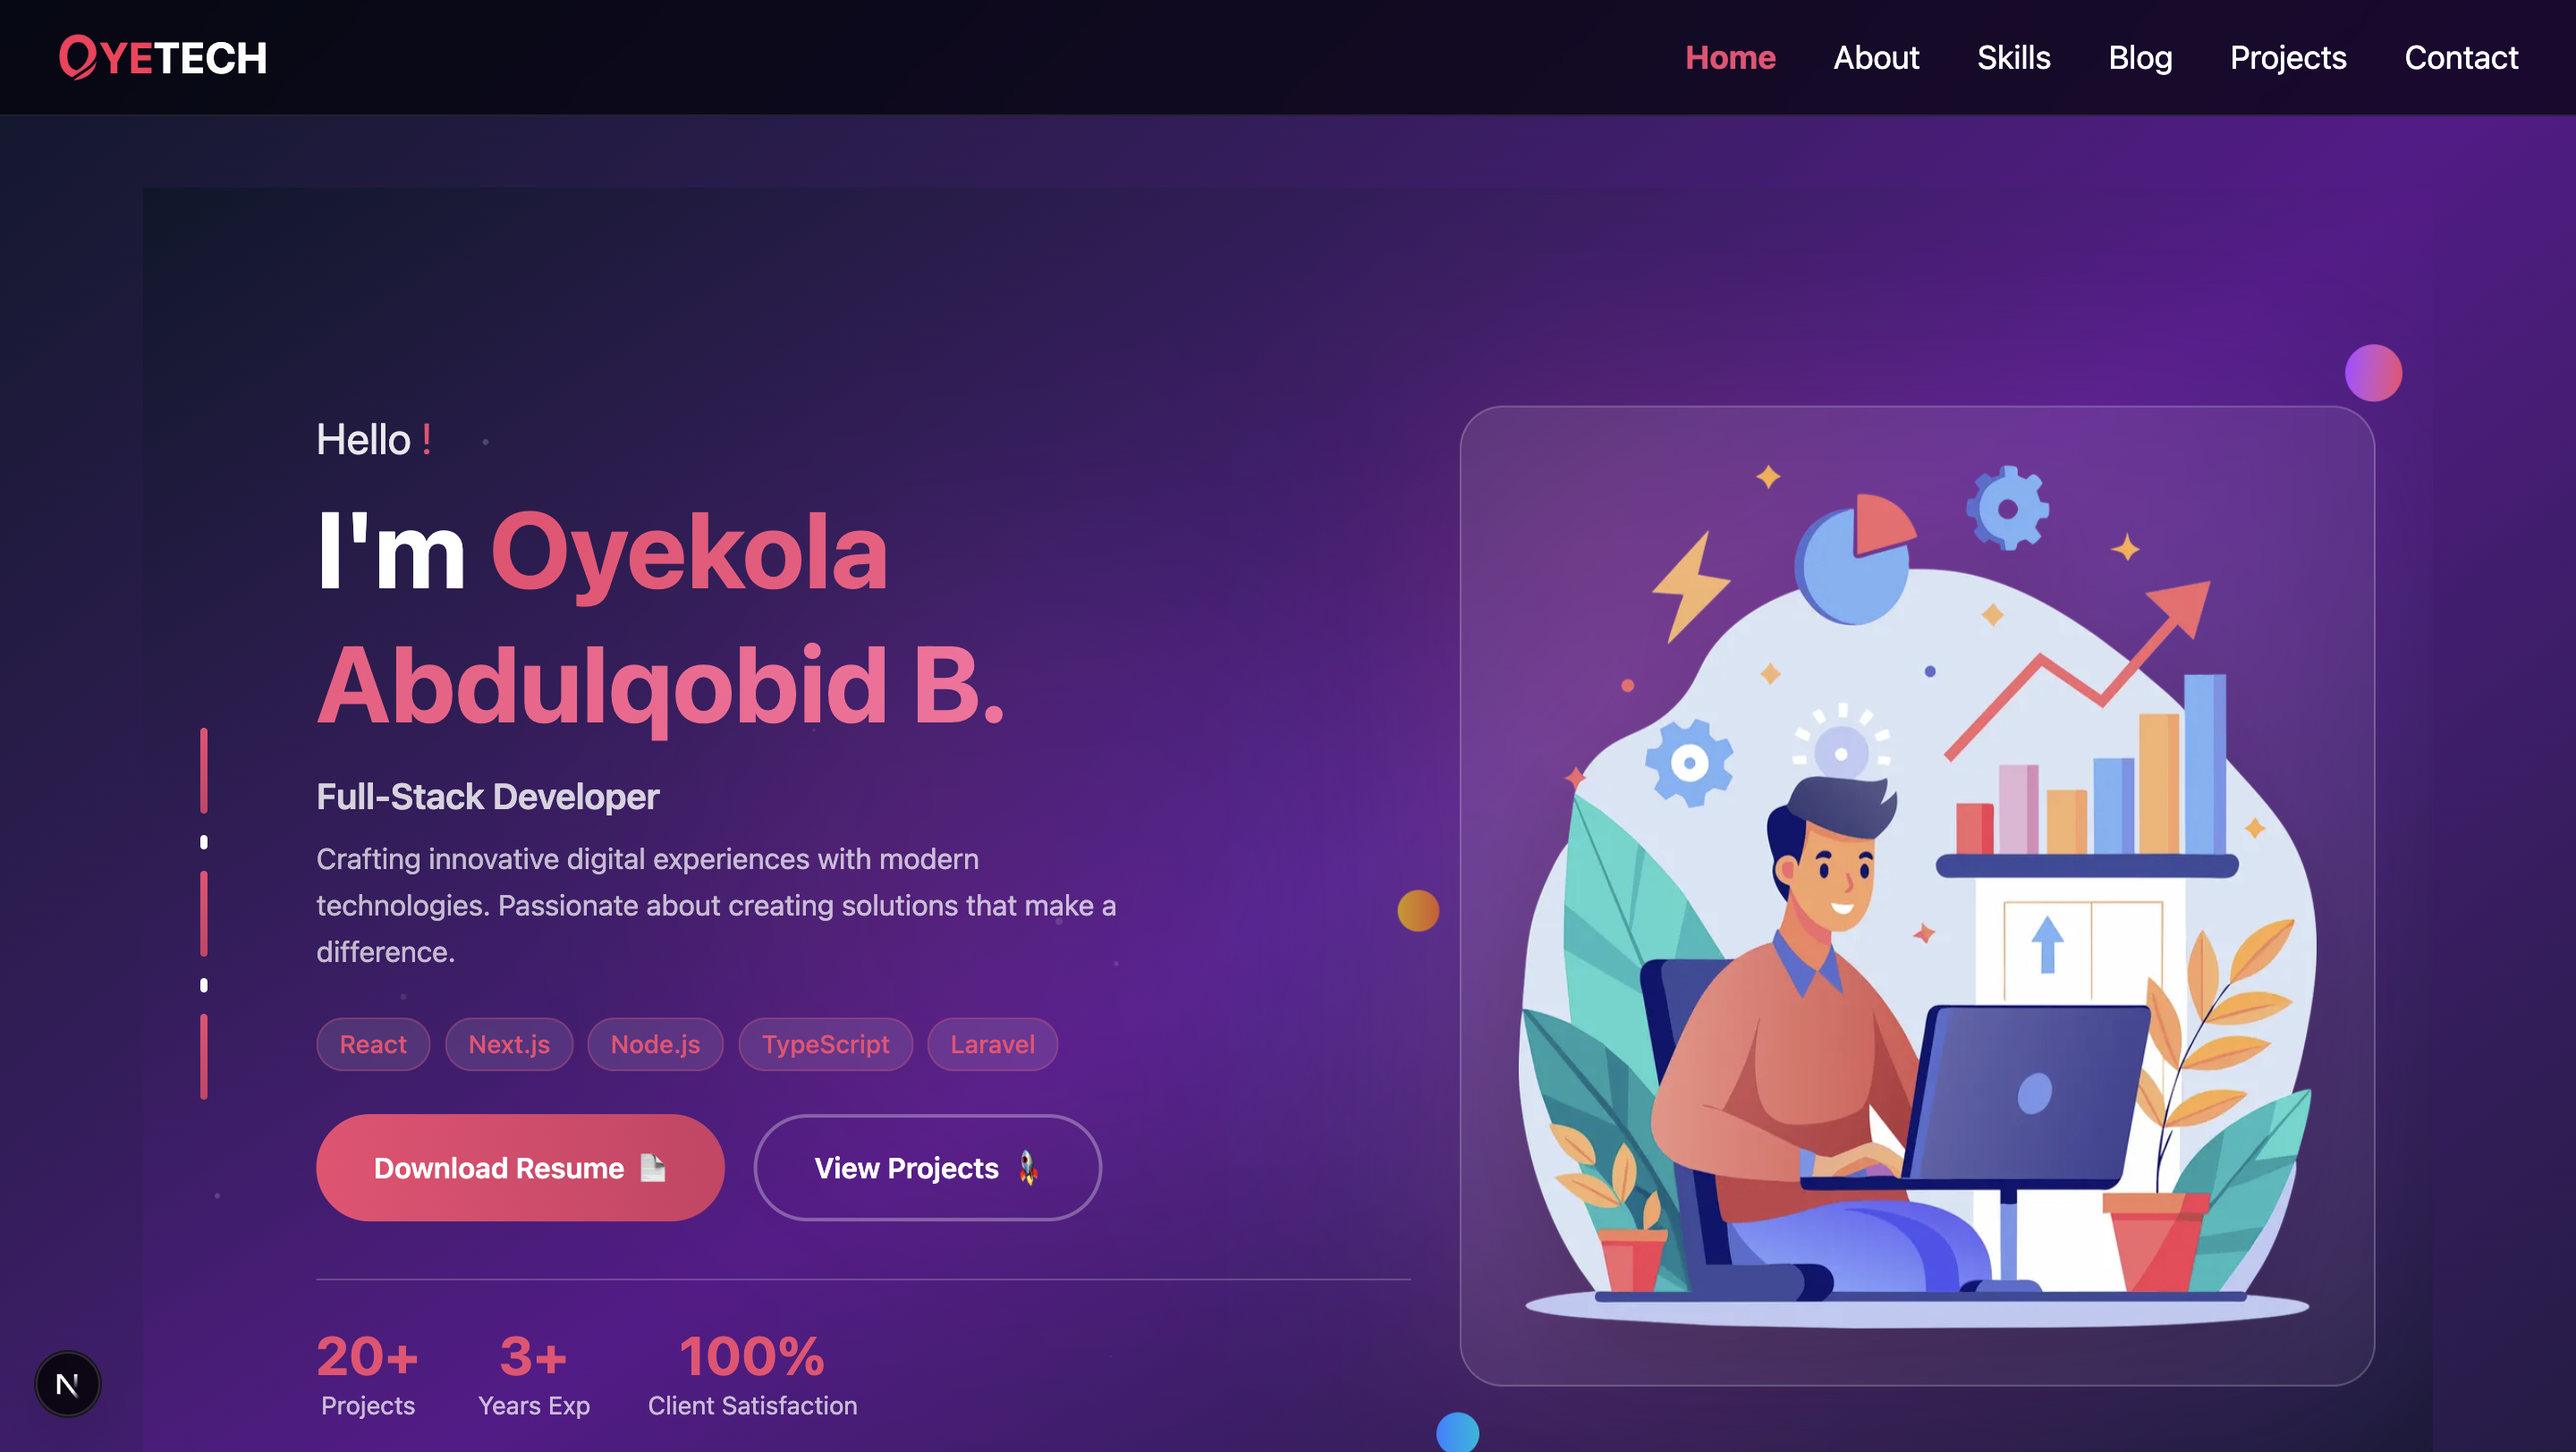
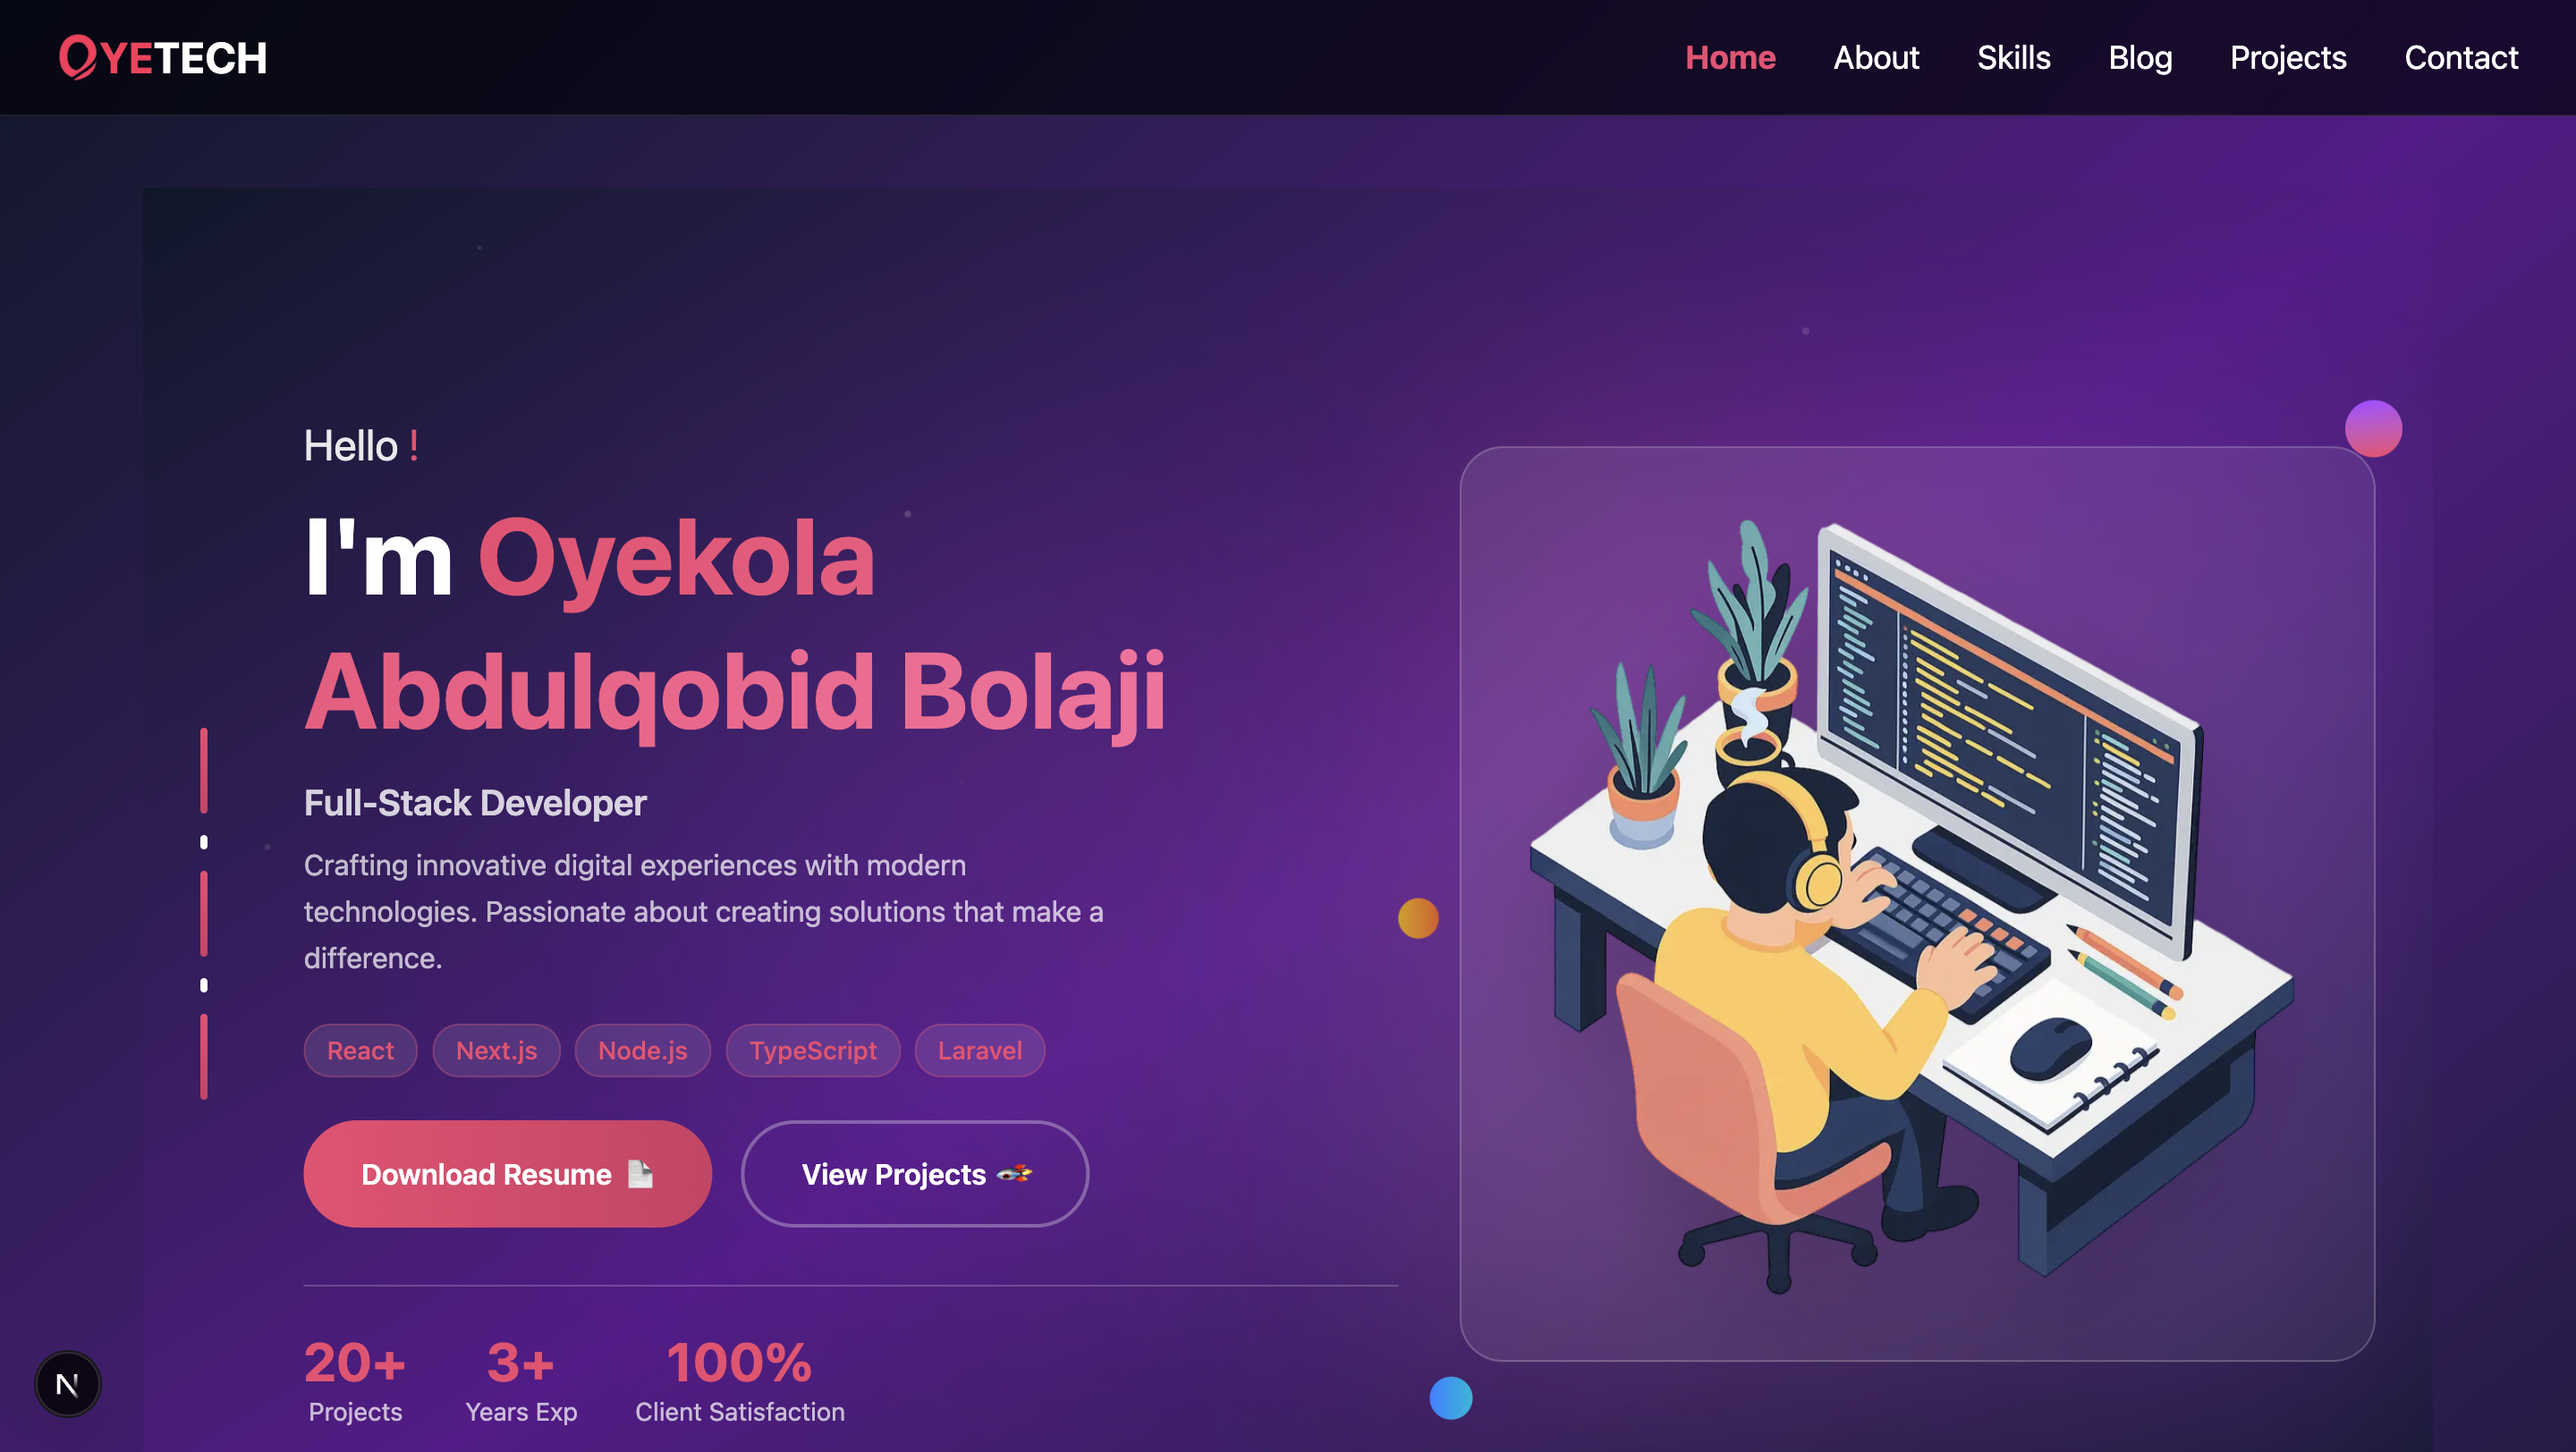
optimized

diff --git a/src/app/sitemap.ts b/src/app/sitemap.ts
@@ -1,12 +1,63 @@
 import { MetadataRoute } from "next";
 
 export default function sitemap(): MetadataRoute.Sitemap {
-  return [
-    {
-      url: "https://oyetech.vercel.app",
+  const baseUrl = "https://oyetech.vercel.app";
+  const lastModified = new Date();
+
+  try {
+    return [
+      {
+        url: baseUrl,
+        lastModified,
+        changeFrequency: "weekly",
+        priority: 1,
+      },
+      {
+        url: `${baseUrl}/about`,
+        lastModified,
+        changeFrequency: "monthly",
+        priority: 0.8,
+      },
+      {
+        url: `${baseUrl}/projects`,
+        lastModified,
+        changeFrequency: "weekly", 
+        priority: 0.8,
+      },
+      {
+        url: `${baseUrl}/blog`,
+        lastModified,
+        changeFrequency: "weekly",
+        priority: 0.7,
+      },
+      {
+        url: `${baseUrl}/contact`,
+        lastModified,
+        changeFrequency: "yearly",
+        priority: 0.5,
+      },
+  
+      ...getBlogPosts().map(post => ({
+        url: `${baseUrl}/blog/${post.slug}`,
+        lastModified: post.updatedAt || lastModified,
+        changeFrequency: "monthly" as const,
+        priority: 0.6,
+      })),
+    ];
+  } catch (error) {
+    console.error("Sitemap generation failed:", error);
+    return [{
+      url: baseUrl,
       lastModified: new Date(),
-      changeFrequency: "monthly",
+      changeFrequency: "weekly" as const,
       priority: 1,
-    },
+    }];
+  }
+}
+
+function getBlogPosts() {
+  return [
+    { slug: "how-i-built-my-portfolio", updatedAt: new Date("2025-08-17") },
+    { slug: "how-to-set-up-authentication-in-nextjs", updatedAt: new Date("2025-08-26") },
   ];
 }

diff --git a/src/app/components/Blogs.tsx b/src/app/components/Blogs.tsx
@@ -9,39 +9,6 @@ import { BlogPostData, getAllPostsAction } from "@/lib/mdx";
 
 const fallbackPosts: BlogPostData[] = [
   {
-    slug: 'building-react-components',
-    frontmatter: {
-      title: 'Building Reusable React Components: A Complete Guide',
-      date: '2024-03-15',
-      tag: 'React',
-      image: '',
-      readTime: '8 min read',
-      excerpt: 'Learn how to create flexible, reusable React components that scale with your application and improve code maintainability.',
-    }
-  },
-  {
-    slug: 'career-development',
-    frontmatter: {
-      title: 'My Journey from Junior to Senior Developer',
-      date: '2024-03-05',
-      tag: 'Career',
-      image: '',
-      readTime: '6 min read',
-      excerpt: 'Reflections on my growth as a developer, lessons learned, and advice for aspiring developers.',
-    }
-  },
-  {
-    slug: 'nodejs-best-practices',
-    frontmatter: {
-      title: 'Node.js Best Practices for 2024',
-      date: '2024-02-20',
-      tag: 'Node.js',
-      image: '',
-      readTime: '10 min read',
-      excerpt: 'Essential Node.js patterns and practices every backend developer should know.',
-    }
-  },
-  {
     slug: 'post-one',
     frontmatter: {
       title: 'How I Built My Developer Portfolio with Next.js, Tailwind, and Vercel',

diff --git a/src/content/posts/how-to-set-up-authentication-in-nextjs.ts b/src/content/posts/how-to-set-up-authentication-in-nextjs.ts
@@ -1,12 +1,12 @@
 export const howAuthenticate = {
-  slug: 'how-to-set-up-authentication',
+  slug: 'how-to-set-up-authentication-in-nextjs',
   frontmatter: {
     title: 'How to Set Up Authentication in Next.js 15 with Server Actions',
     date: '2025-08-26',
     excerpt: 'Authentication is one of the most important parts of any modern web application. Whether you’re building a portfolio, SaaS platform, or an e-commerce app, you’ll need a way for users to securely sign up, log in, and manage their sessions...',
-    tag: 'Tutorial',
+    tag: 'Next.js',
     image: '/assets/blogs/2.png',
-    readTime: '3 min read'
+    readTime: '6 min read'
   },
   content: `
     <p class="text-gray-300 text-lg mb-3">
@@ -41,7 +41,7 @@ export const howAuthenticate = {
     <h2 class="text-2xl font-semibold text-white mt-10 mb-4">❓ Why Authentication Matters</h2>
     <ul class="mb-3 text-gray-300 list-disc list-inside px-2">
         <li>Keeps user data secure</li>
-        <li>Enables personalized experiences (e.g., dashboards)</li>
+        <li>Enables personalized experiences (e.g dashboards)</li>
         <li>Builds trust in your application</li>
         <li>Lays the foundation for features like payments, subscriptions, or role-based access</li>
     </ul>

diff --git a/src/app/components/Home.tsx b/src/app/components/Home.tsx
@@ -350,12 +350,12 @@ const HomePage: React.FC = () => {
                             }}
                         >
                             <Image 
-                                src="/assets/profiles/dev1.png" 
+                                src="/assets/profiles/newp11.png" 
                                 alt="Developer illustration"
                                 width={400} 
                                 height={400} 
                                 priority 
-                                className="w-full h-auto object-contain filter drop-shadow-2xl"
+                                className="w-full h-auto object-contain rounded-lg filter drop-shadow-2xl"
                             />
                             
                             {/* Floating elements around image */}
@@ -414,7 +414,7 @@ const HomePage: React.FC = () => {
                         whileHover={{ scale: 1.02 }}
                     >
                         <Image 
-                            src="/assets/profiles/dev1.png" 
+                            src="/assets/profiles/newp11.png" 
                             alt="Developer illustration" 
                             width={300} 
                             height={300} 

diff --git a/src/app/components/Contact.tsx b/src/app/components/Contact.tsx
@@ -33,7 +33,6 @@ function ContactPage() {
       setSuccess(true);
       setFormData({ name: "", email: "", message: "" });
 
-      // Hide success after 5s
       setTimeout(() => setSuccess(false), 5000);
     }
   };
@@ -46,6 +45,13 @@ function ContactPage() {
       className="py-10 md:py-20 max-w-screen-sm mx-auto px-4"
     >
       <h2 className="text-4xl font-bold text-white mb-8">Contact</h2>
+
+      <div className="mb-3">
+        <p className="text-lg">Email: <a className="text-gray-300 text-base" href="mailto:oyetech30@gmail.com">oyetech30@gmail.com</a></p>
+        <p className="text-lg">Phone: <a className="text-gray-300 text-base" href="tel:+2348143011868">+2348143011868</a></p>
+      </div>
+
+      <p className="mb-8 text-gray-300">Send message directly to my gmail 👇</p>
 
       <form onSubmit={handleSubmit} className="flex flex-col gap-5">
         <motion.div initial={{ opacity: 0 }} animate={{ opacity: 1 }} transition={{ delay: 0.1 }}>

diff --git a/src/content/posts/how-i-built-my-portfolio.ts b/src/content/posts/how-i-built-my-portfolio.ts
@@ -4,7 +4,7 @@ export const postOne = {
     title: 'How I Built My Developer Portfolio with Next.js, TypeScript, Tailwind and Vercel',
     date: '2025-08-17',
     excerpt: 'Every developer needs a portfolio — not just as a showcase of projects, but as a way to communicate who they are and what they can do. Earlier this year, I decided to give my old portfolio a complete makeover. My previous site ...',
-    tag: 'Tutorial',
+    tag: 'Portfolio',
     image: '/assets/blogs/1.png',
     readTime: '4 min read'
   },

diff --git a/src/lib/mdx.ts b/src/lib/mdx.ts
@@ -1,6 +1,6 @@
 // src/lib/mdx.ts
 import { postOne } from '@/content/posts/how-i-built-my-portfolio'
-import { howAuthenticate } from '@/content/posts/how-to-set-up-authentication'
+import { howAuthenticate } from '@/content/posts/how-to-set-up-authentication-in-nextjs'
 
 export interface PostFrontmatter {
   title: string,
